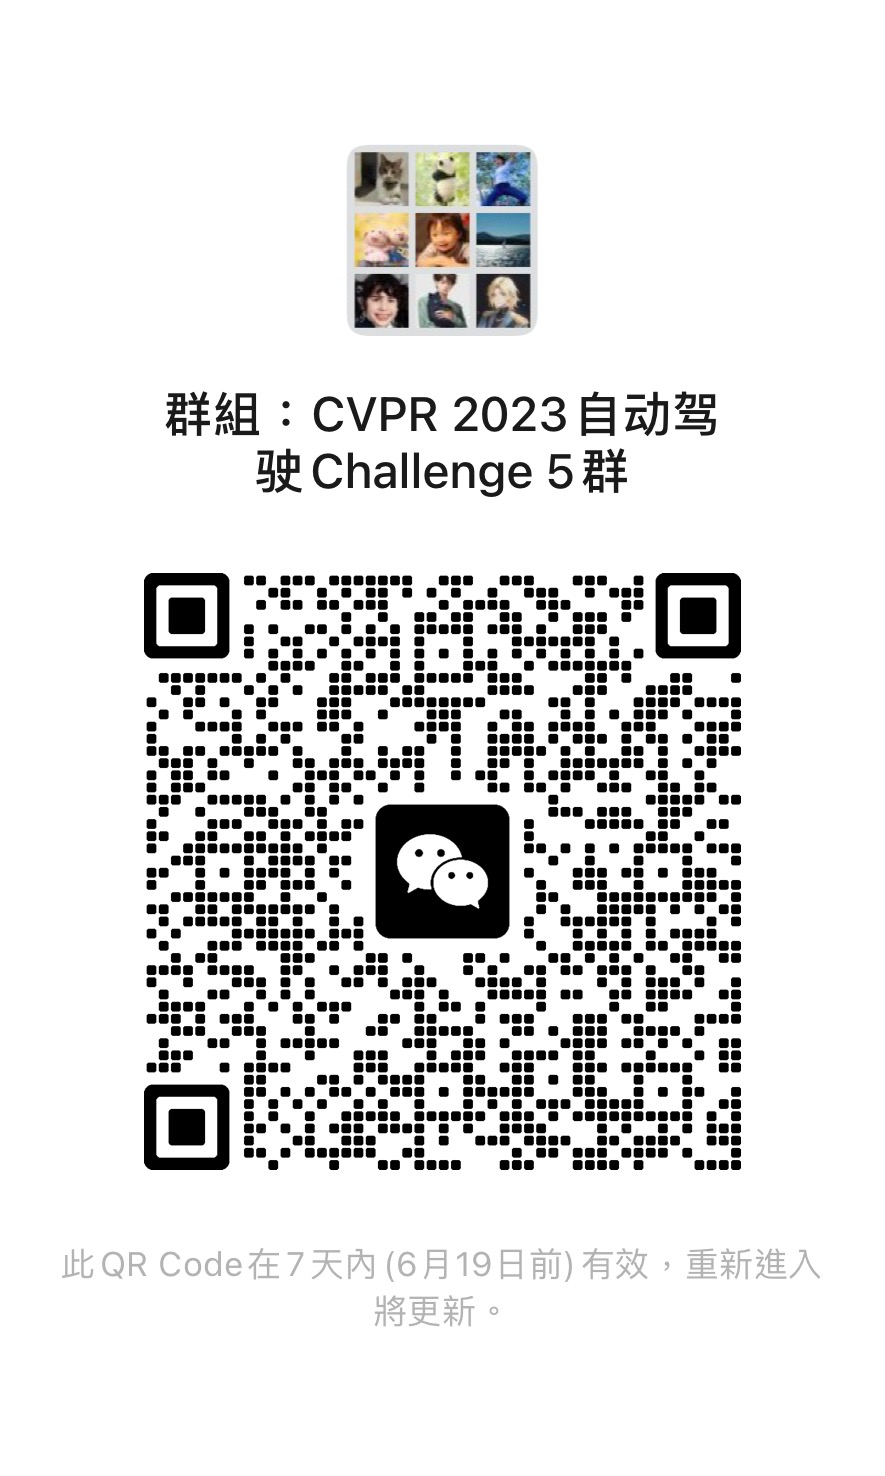
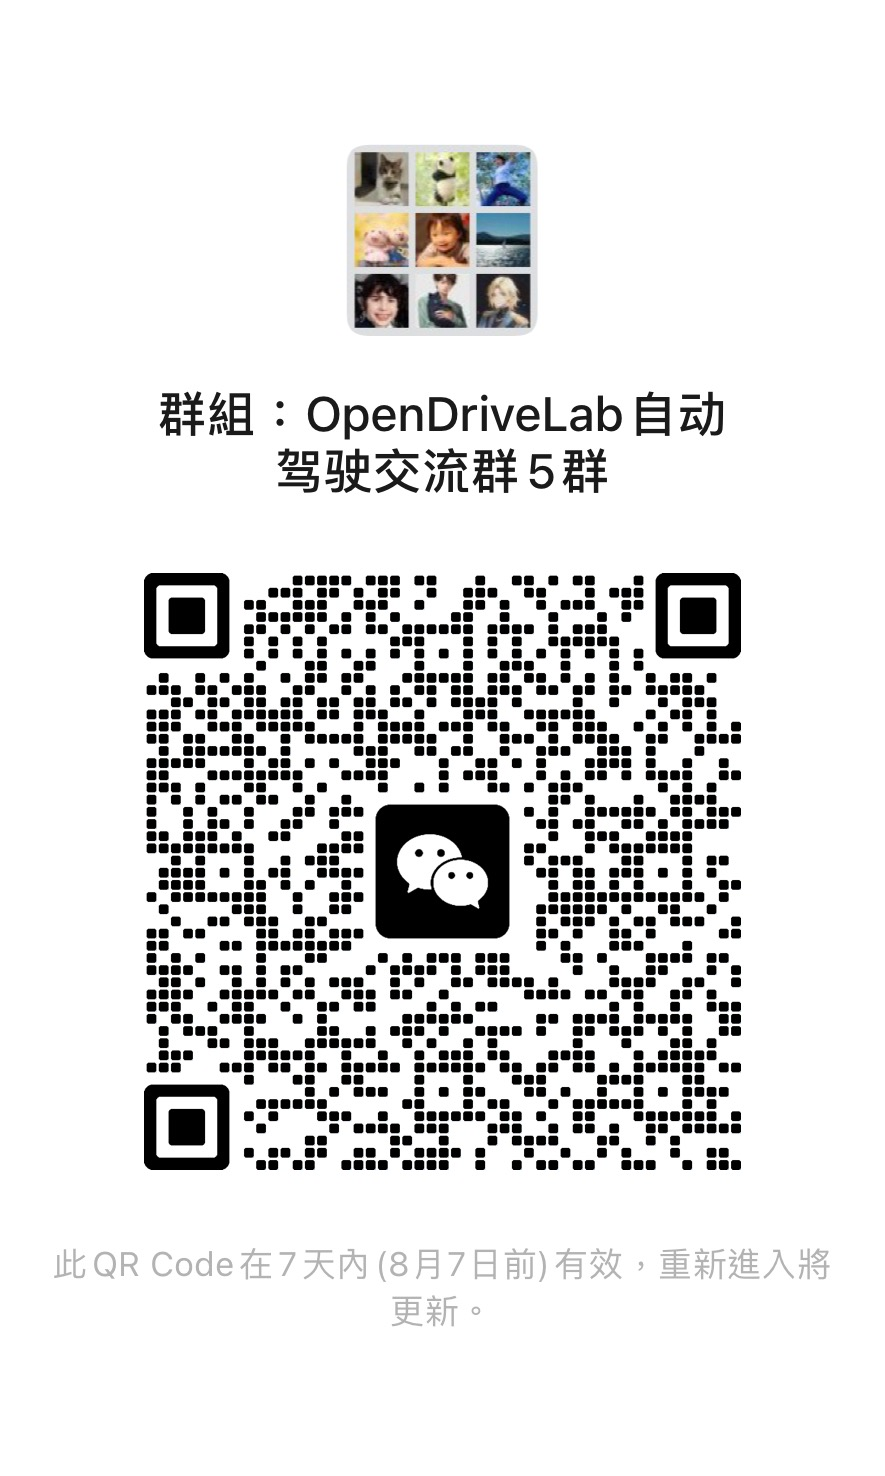
.

Changed region(s): [[0.1525, 0.374, 0.8542, 0.8103], [0.1831, 0.2493, 0.8237, 0.3428], [0.061, 0.8415, 0.9458, 0.9038]]

diff --git a/AD23Challenge.html b/AD23Challenge.html
@@ -384,13 +384,13 @@
         track-specific channels.
       </p>
 
-      <!-- <p>
+      <p>
         <a href="images/challenge/wechatgroup.jpeg" class="h_imga">
           <img src="https://img.shields.io/badge/WeChat-Join-important?logo=wechat&amp" alt="Join Wechat"
             style="height: 25px" />
         </a>
         Join WeChat group to chat with Challenge organizers.
-      </p> -->
+      </p>
 
 
 
@@ -437,7 +437,7 @@
         </ul>
       </div>
       </p>
-
+<!-- 
       <br>
 
       <h4>
@@ -459,7 +459,7 @@
           </li>
         </ul>
       </div>
-      </p>
+      </p> -->
 
 
     </div>
@@ -553,7 +553,7 @@
     <br>
 
     <h4>
-      <b>Leaderboard</b>
+      <b style="text-transform: none;">Leaderboard (Server remains active)</b>
     </h4>
 
     <p>
@@ -1237,7 +1237,7 @@
 
 
     <h4>
-      <b>Leaderboard</b>
+      <b style="text-transform: none;">Leaderboard (Server remains active)</b>
     </h4>
 
     <p>
